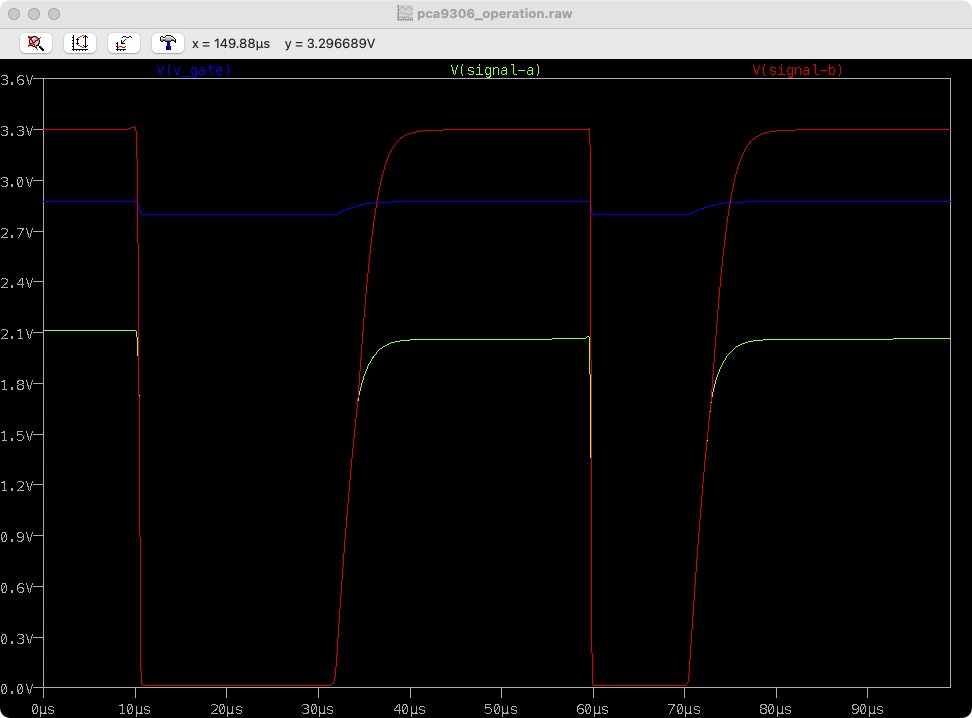
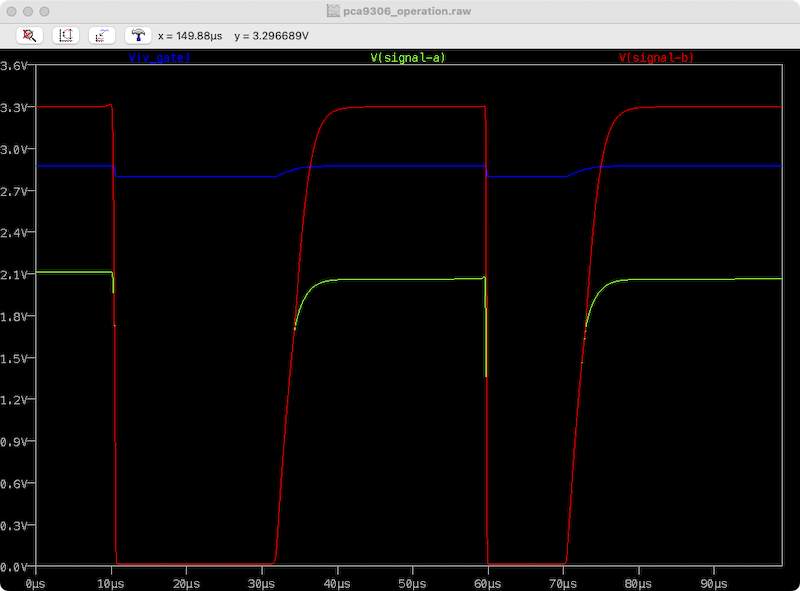
README including result picture and those pictures are resized

diff --git a/README.md b/README.md
@@ -25,6 +25,7 @@ It will show the An pin (a SOURCE termial) follows the GATE voltage below its Vg
 The simulation uses a 1kΩ pull-up resistor on B-side and 1MΩ dummy load on A-side. The 1MΩ dummy load is for just fixing the An voltage. 
  
 ![pca9306_pass_transistor.asc](https://github.com/teddokano/pca9306_sim/blob/main/readme_img/pca9306_pass_transistor.asc.png)
+![pca9306_pass_transistor.png](https://github.com/teddokano/pca9306_sim/blob/main/pca9306_pass_transistor.png)
 
 ### pca9306_static_behavior.asc
 `pca9306_static_behavior.asc` simulates to help understanding purpose of the reference transistor.  
@@ -32,12 +33,14 @@ The simulation will show the reference transistor works as a diode to make bias 
 With the bias voltage from the reference transistor, the An pin is kept to Vcc(A) voltage.  
 
 ![pca9306_static_behavior.asc](https://github.com/teddokano/pca9306_sim/blob/main/readme_img/pca9306_static_behavior.asc.png)
+![pca9306_static_behavior.png](https://github.com/teddokano/pca9306_sim/blob/main/pca9306_static_behavior.png)
 
 ### pca9306_operation.asc
 `pca9306_operation.asc` shows how the both direction voltage translation is performed.  
 Signals driven LOW from B-side (Vcc(B) = 3.3V) and A-side (Vcc(A) = 2.0V) alternatively. The HIGH voltage is kept on its Vcc on both side.  
 
 ![pca9306_operation.asc](https://github.com/teddokano/pca9306_sim/blob/main/readme_img/pca9306_operation.asc.png)
+![pca9306_operation.png](https://github.com/teddokano/pca9306_sim/blob/main/pca9306_operation.png)
 
 
 # References
